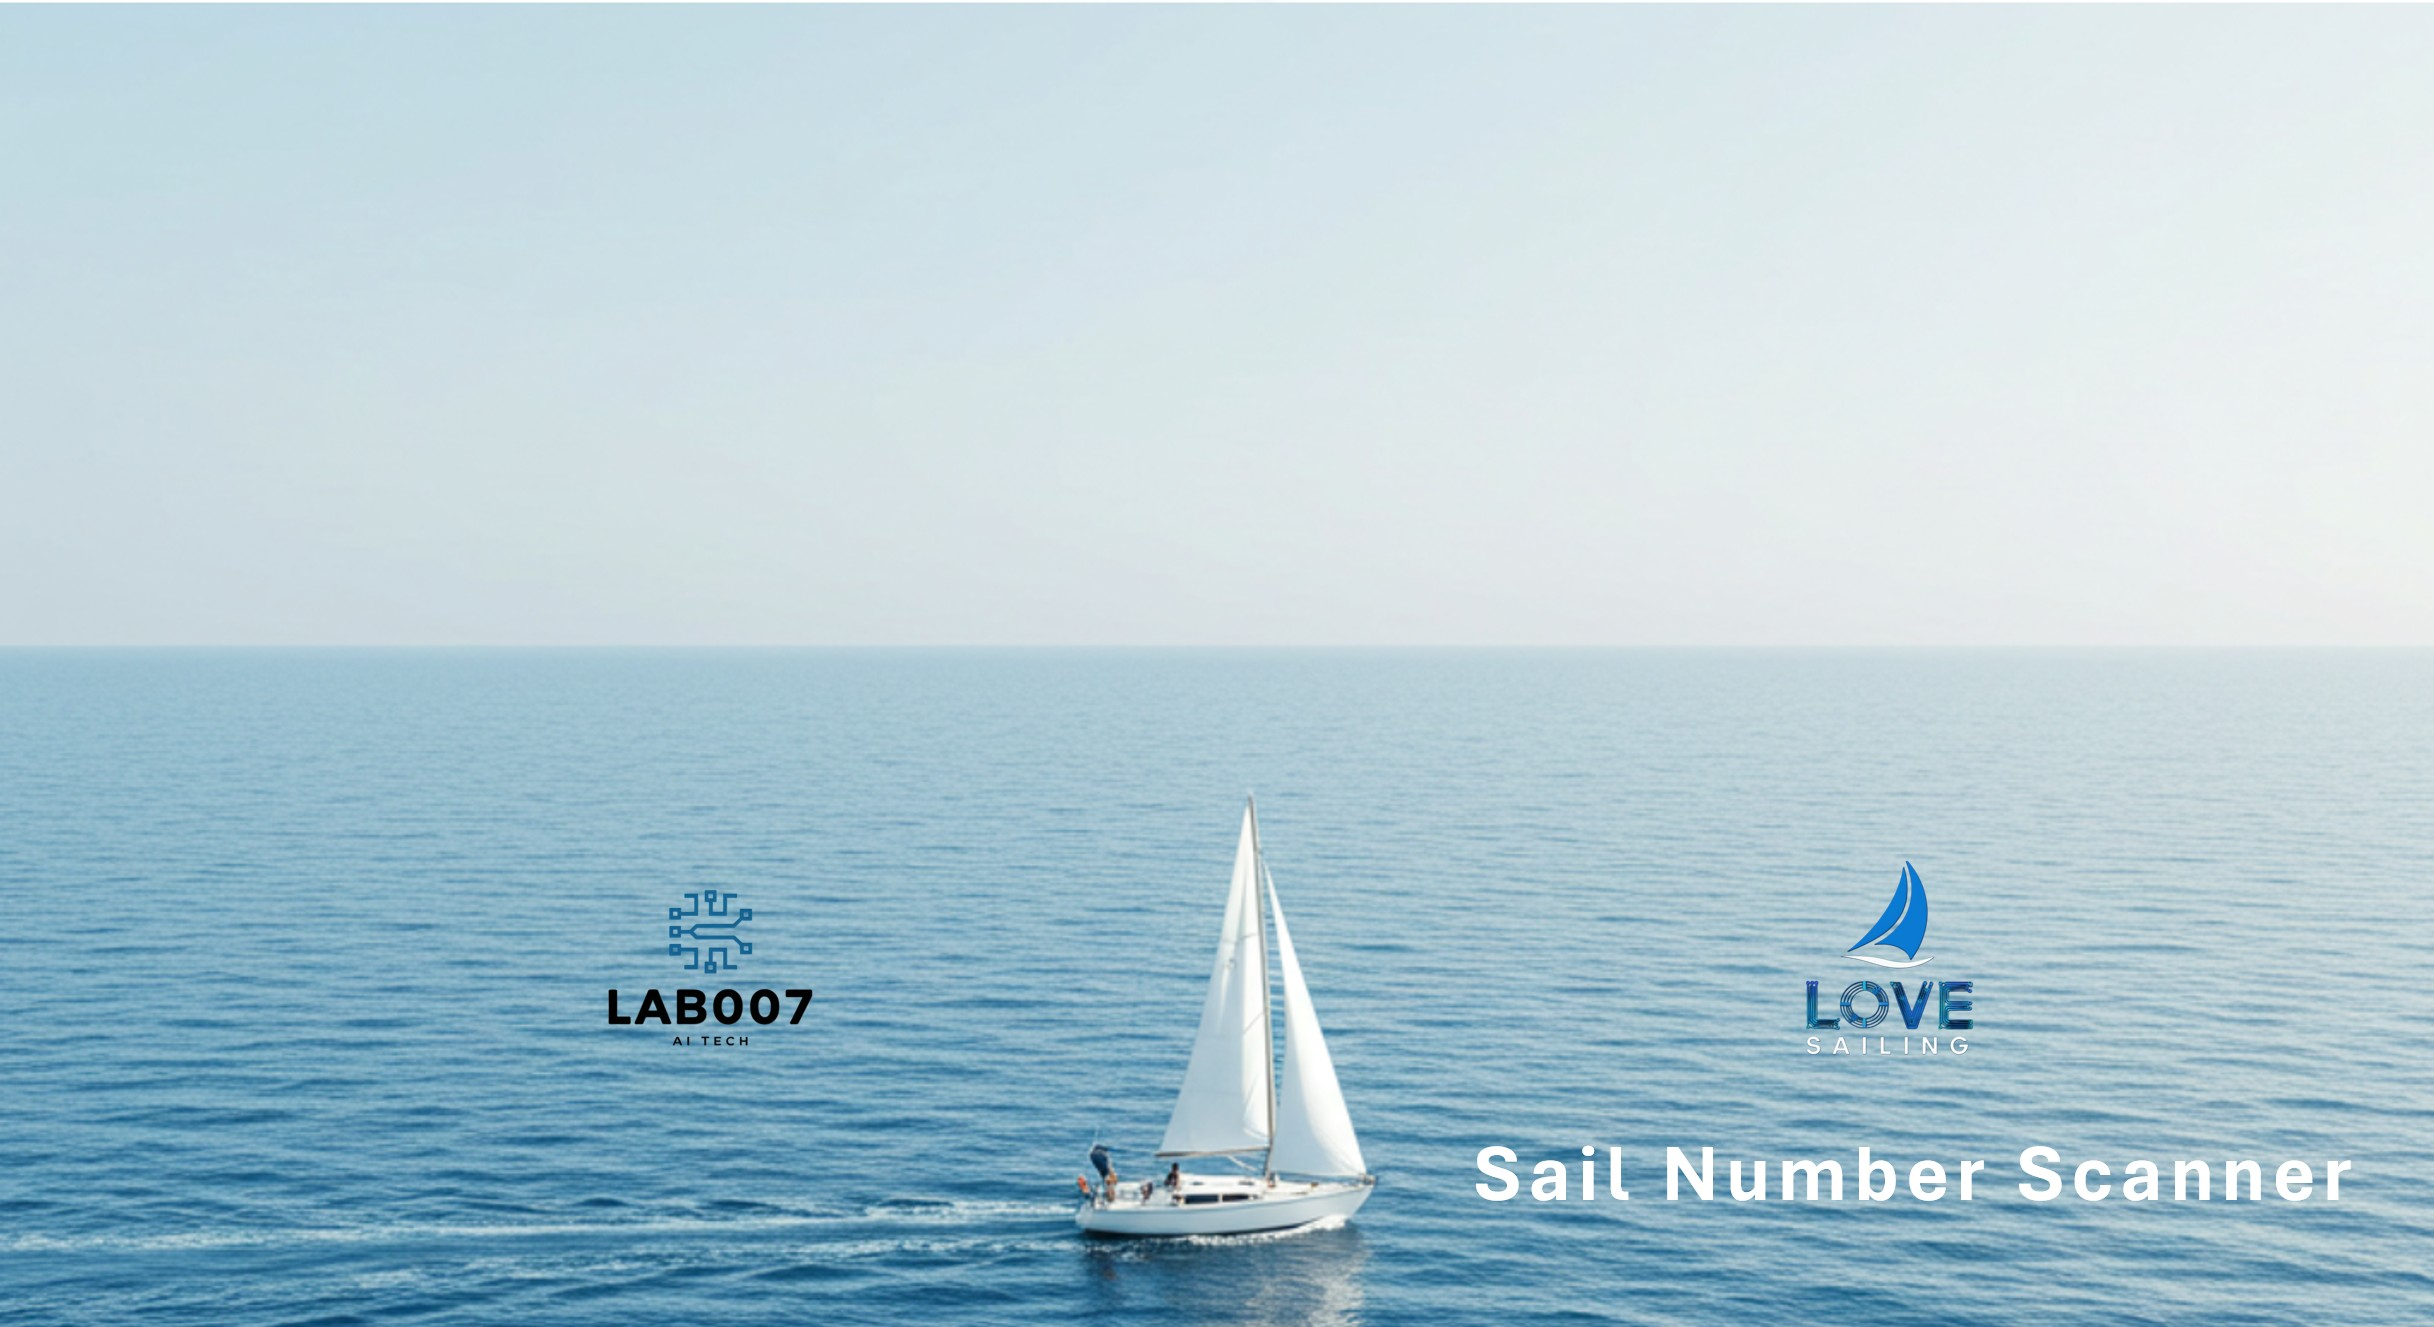
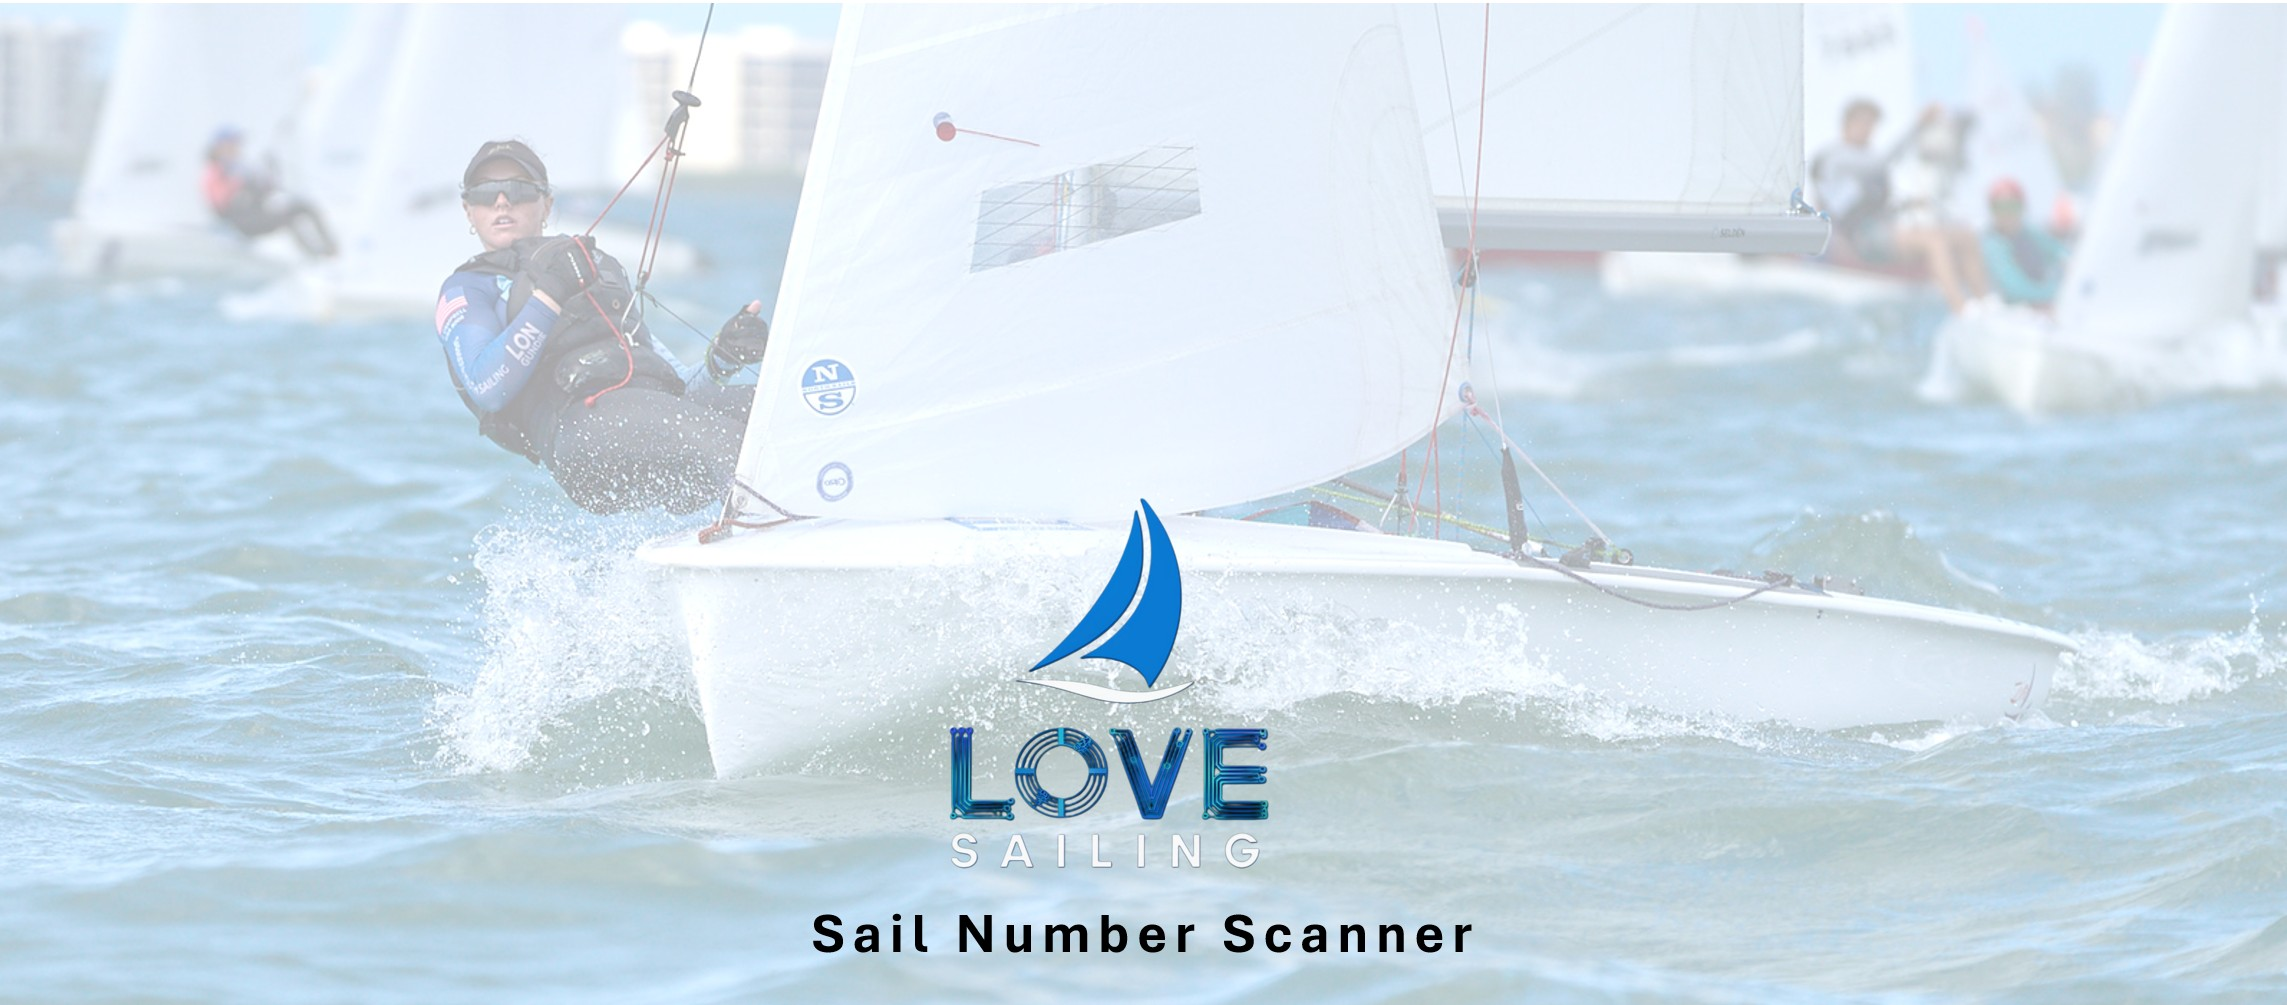
Add files via upload

diff --git a/public/SAILSCAN2.html b/public/SAILSCAN2.html
@@ -4,30 +4,29 @@
     <title>LAB007 - LOVESAILING PHOTO SCANNER</title>
     <meta name="viewport" content="width=device-width, initial-scale=1">
     <style>
+        html, body {
+            margin: 0;
+            padding: 0;
+            overflow-x: hidden;
+        }
+
         .header {
-            text-align: center;
-            padding: 0; /* Remove padding to allow image to span full width */
-            margin-bottom: 30px;
-            background: #f0f0f0; /* Lighter grey background */
-            border: 2px solid #dee2e6; /* Add border frame */
-            border-radius: 8px; /* Rounded corners */
-            box-shadow: 0 2px 5px rgba(0,0,0,0.1); /* Subtle shadow */
-            overflow: hidden; /* Ensure image doesn't break out of border radius */
+            width: 100%;
+            margin: 0 0 30px 0;
+            padding: 0;
+            position: relative;
+            background: #f0f0f0;
         }
 
         .logo {
-            width: 100%; /* Make image fill the full width */
+            width: 100%;
             height: auto;
             display: block;
-            margin: 0;
-            max-height: none; /* Remove max-height constraint */
+            object-fit: cover;
         }
 
         body {
             font-family: Arial, sans-serif;
-            max-width: 1200px;
-            margin: 0 auto;
-            padding: 0; /* Update to 0 */
             min-height: 100vh;
             display: flex;
             flex-direction: column;
@@ -312,9 +311,13 @@
             color: #721c24;
         }
         .main-container {
-            background: white;
-            border-radius: 8px;
-            box-shadow: 0 2px 4px rgba(0,0,0,0.1);
+            max-width: 1200px;
+            margin: 0 auto;
+            width: 100%;
+            padding: 0 20px;
+            display: flex;
+            flex-direction: column;
+            flex: 1;
         }
         .debug-toggle {
             margin: 10px 0;
@@ -324,7 +327,7 @@
             text-align: center;
             padding: 20px;
             margin-top: 40px;
-            background: #f8f9fa;
+            background: #ffffff;
             border-top: 1px solid #dee2e6;
         }
 
@@ -342,19 +345,8 @@
 
         @media (max-width: 768px) {
             /* Adjustments for mobile/tablet */
-            .header {
-                border-radius: 0; /* Remove border radius on small screens */
-                margin-left: -20px; /* Extend beyond the body padding */
-                margin-right: -20px;
-                width: calc(100% + 40px); /* Account for body padding */
-            }
-            
-            body {
-                padding: 0; /* Remove padding on small screens */
-            }
-            
             .content-wrapper {
-                padding: 0 20px; /* Add padding to content instead */
+                padding: 0 15px; /* Reduced padding for smaller screens */
             }
         }
     </style>
@@ -364,94 +356,97 @@
         <img src="lovesailing-header.jpg" alt="LoveSailing Header" class="logo">
     </div>
 
-    <div class="content-wrapper">
-        <h1>LAB007-Sail-Photo-Scan</h1>
-        <div class="upload-section">
-            <h2>Upload Sail Photos</h2>
-            <input type="file" id="imageInput" accept="image/*" multiple>
-            <p>Select one or more images to analyze</p>
-        </div>
-
-        <div id="topResultsBox" class="sail-number-display">
-            <h2>Results</h2>
-            <div class="results-list"></div>
-        </div>
-
-        <div id="batchActions" class="batch-actions" style="display: none;">
-            <button id="downloadAllBtn" class="download-all-btn">Download All Renamed Files</button>
-            <div class="batch-summary"></div>
-        </div>
-
-        <img id="preview" style="display: none;">
-        <div id="loading" class="loading">Analyzing image...</div>
-
-        <div id="results"></div>
-        <div id="sailNumberBox" class="sail-number-display" style="display: none;">
-            <h2>Detected Sail Number</h2>
-            <div class="sail-number-value">--</div>
-            <div class="sail-number-confidence"></div>
-        </div>
-
-        <div id="debugPanel" class="debug-panel">
-            <div class="debug-header">
-                <h3>Debug Information</h3>
-                <label>
-                    <input type="checkbox" id="debugToggle" checked> Show Debug Info
-                </label>
+    <div class="main-container">
+        <div class="content-wrapper">
+            <div class="upload-section">
+                <h2>Upload Sail Photos</h2>
+                <input type="file" id="imageInput" accept="image/*" multiple>
+                <p>Select one or more images to analyze</p>
             </div>
-            <div class="debug-content">
-                <div class="debug-section">
-                    <h4>Azure Vision Processing Status</h4>
-                    <div id="processingStatus" class="processing-status">Waiting to start...</div>
-                    <pre id="azureDebug">Waiting for scan...</pre>
+
+            <div id="topResultsBox" class="sail-number-display">
+                <h2>Results</h2>
+                <div class="results-list"></div>
+            </div>
+
+            <div id="batchActions" class="batch-actions" style="display: none;">
+                <button id="downloadAllBtn" class="download-all-btn">Download All Renamed Files</button>
+                <div class="batch-summary"></div>
+            </div>
+
+            <img id="preview" style="display: none;">
+            <div id="loading" class="loading">Analyzing image...</div>
+
+            <div id="results"></div>
+            <div id="sailNumberBox" class="sail-number-display" style="display: none;">
+                <h2>Detected Sail Number</h2>
+                <div class="sail-number-value">--</div>
+                <div class="sail-number-confidence"></div>
+            </div>
+
+            <div id="debugPanel" class="debug-panel">
+                <div class="debug-header">
+                    <h3>Debug Information</h3>
+                    <label>
+                        <input type="checkbox" id="debugToggle" checked> Show Debug Info
+                    </label>
                 </div>
-                <div class="debug-section">
-                    <h4>Raw Text Detected</h4>
-                    <pre id="rawTextDebug">Waiting for scan...</pre>
+                <div class="debug-content">
+                    <div class="debug-section">
+                        <h4>Azure Vision Processing Status</h4>
+                        <div id="processingStatus" class="processing-status">Waiting to start...</div>
+                        <pre id="azureDebug">Waiting for scan...</pre>
+                    </div>
+                    <div class="debug-section">
+                        <h4>Raw Text Detected</h4>
+                        <pre id="rawTextDebug">Waiting for scan...</pre>
+                    </div>
+                    <div class="debug-section">
+                        <h4>Number Processing</h4>
+                        <pre id="numberDebug">Waiting for scan...</pre>
+                    </div>
                 </div>
-                <div class="debug-section">
-                    <h4>Number Processing</h4>
-                    <pre id="numberDebug">Waiting for scan...</pre>
+            </div>
+
+            <div id="batchProgress" class="batch-progress" style="display: none;">
+                <div class="progress-header">
+                    <span class="progress-title">Processing Files</span>
+                    <span class="progress-count">0/0 files complete</span>
+                </div>
+                <div class="progress-bar">
+                    <div class="progress-fill"></div>
                 </div>
             </div>
-        </div>
 
-        <div id="batchProgress" class="batch-progress" style="display: none;">
-            <div class="progress-header">
-                <span class="progress-title">Processing Files</span>
-                <span class="progress-count">0/0 files complete</span>
-            </div>
-            <div class="progress-bar">
-                <div class="progress-fill"></div>
-            </div>
-        </div>
+            <div class="results-container">
+                <!-- Sail numbers and file listings here -->
 
-        <div class="results-container">
-            <!-- Sail numbers and file listings here -->
-
-            <!-- Always show the Download All section -->
-            <div class="batch-download" style="
-                margin-top: 30px;
-                padding: 20px;
-                background: #f8f9fa;
-                border-radius: 8px;
-                text-align: center;
-                border: 1px solid #dee2e6;
-            ">
-                <button id="mainDownloadAllBtn" onclick="downloadAllFiles()" 
-                        class="download-all-btn"
-                        style="padding: 15px 40px; font-size: 1.2em;">
-                    Download All Renamed Files
-                </button>
-                <div id="processedCount" class="processed-count" style="margin-top: 10px; color: #666;">
-                    No files processed yet
+                <!-- Always show the Download All section -->
+                <div class="batch-download" style="
+                    margin-top: 30px;
+                    padding: 20px;
+                    background: #f8f9fa;
+                    border-radius: 8px;
+                    text-align: center;
+                    border: 1px solid #dee2e6;
+                ">
+                    <button id="mainDownloadAllBtn" onclick="downloadAllFiles()" 
+                            class="download-all-btn"
+                            style="padding: 15px 40px; font-size: 1.2em;">
+                        Download All Renamed Files
+                    </button>
+                    <div id="processedCount" class="processed-count" style="margin-top: 10px; color: #666;">
+                        No files processed yet
+                    </div>
                 </div>
             </div>
         </div>
     </div>
 
     <div class="footer">
-        <img src="LAB007-FOOTER.JPG" alt="LAB007 Footer">
+        <a href="https://thomad99.wixstudio.com/lab007" target="_blank">
+            <img src="LAB007-FOOTER.JPG" alt="LAB007 Footer">
+        </a>
     </div>
 
     <script>
